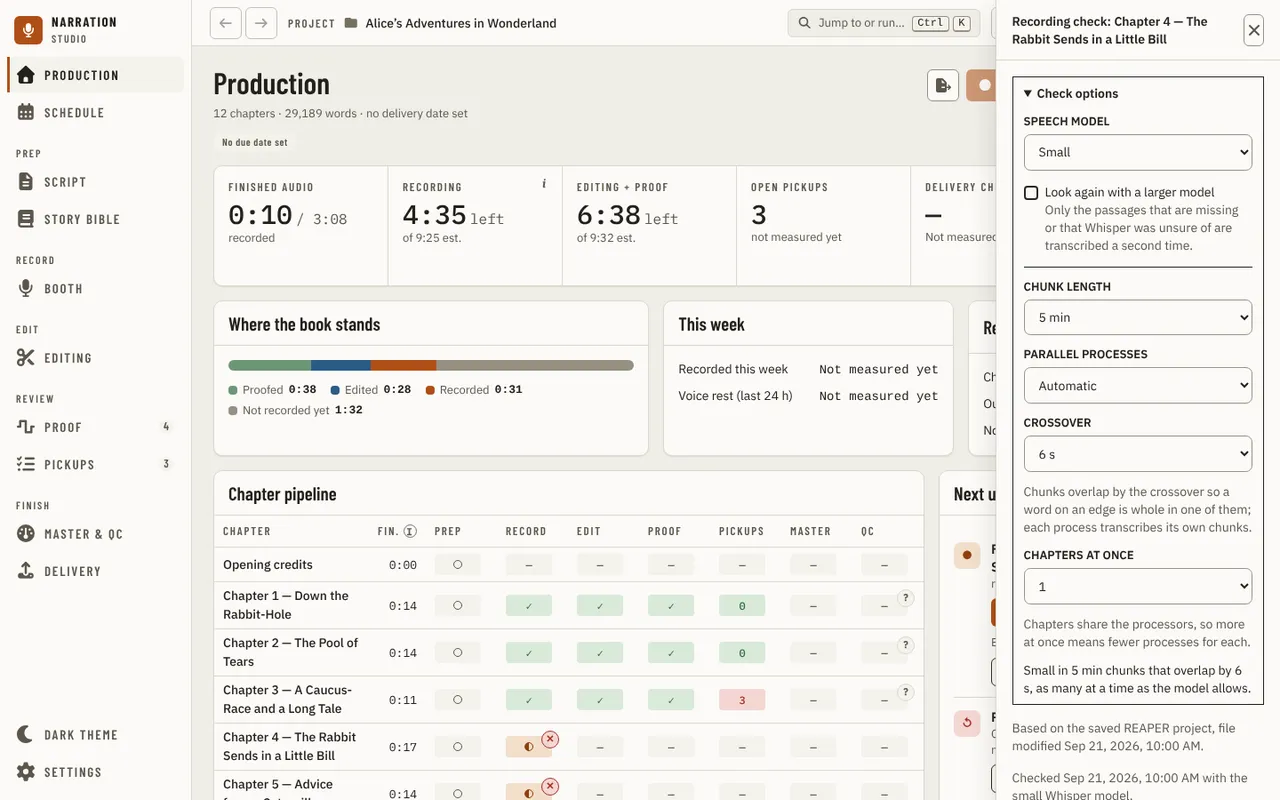
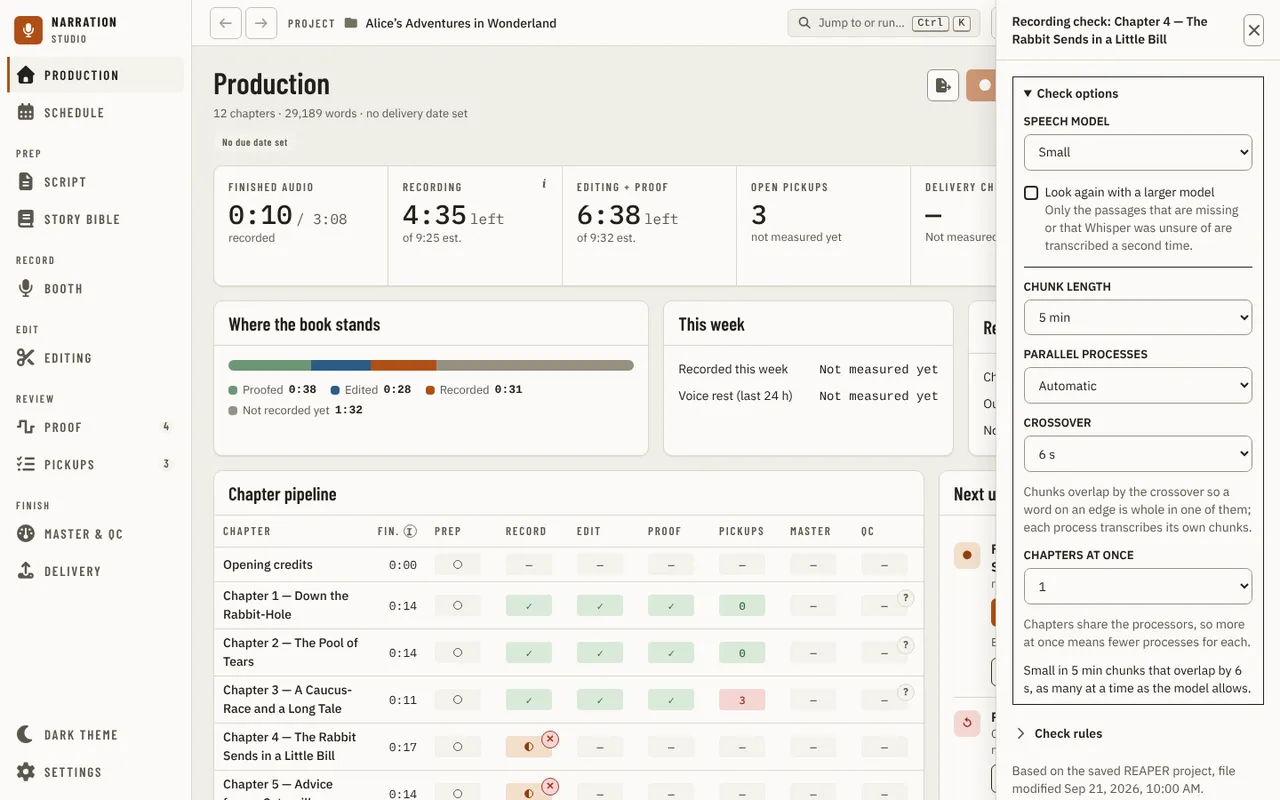
feat(ui): set the recording check rules in the check's own panel
Claude-Session: https://claude.ai/code/session_012dbtbcZmeq9ShBHp1E2XY7

Changed region(s): [[0.7812, 0.9062, 0.9688, 1.0]]

diff --git a/apps/ui/src/components/production/RecordingCheck.test.tsx b/apps/ui/src/components/production/RecordingCheck.test.tsx
@@ -363,3 +363,43 @@ describe('the recording check panel shares the check options with Check recordin
     expect((within(dialog).getByRole('button', { name: /^Check (again|recording)$/ }) as HTMLButtonElement).disabled).toBe(false);
   });
 });
+
+describe('the recording check panel holds the rules the check judges by', () => {
+  async function openRules() {
+    const store = createMockApi();
+    const saveSettings = vi.fn(store.saveSettings);
+    const coverageResult = vi.fn(store.coverageResult);
+    const api = createMockApi({ saveSettings, coverageResult, settingsForScope: store.settingsForScope });
+    const [chapter] = await api.manuscriptChapters();
+    render(
+      <MemoryRouter>
+        <ApiProvider api={api}>
+          <RecordingCheck chapter={chapter} coverage={{ phase: 'idle', percent: 0, message: '' }} notify={vi.fn()} close={vi.fn()} goToParagraph={vi.fn()} />
+        </ApiProvider>
+      </MemoryRouter>,
+    );
+    const dialog = await screen.findByRole('dialog', { name: /^Recording check: Chapter 1\b/ });
+    await userEvent.click(await within(dialog).findByRole('button', { name: /^Check rules/ }));
+    return { dialog, saveSettings, coverageResult };
+  }
+
+  it('shows the five rules at the values in force, with the note that they are proposed', async () => {
+    const { dialog } = await openRules();
+    expect(((await within(dialog).findByRole('textbox', { name: 'Longest run of missing words allowed' })) as HTMLInputElement).value).toBe('3');
+    for (const name of ['Share of each paragraph that must be read', 'Longest misread still counted as read', 'Shortest match that counts as read']) {
+      expect(within(dialog).getByRole('textbox', { name })).toBeTruthy();
+    }
+    expect(within(dialog).getByRole('switch', { name: 'Check changed chapters in the background' }).getAttribute('aria-checked')).toBe('true');
+    expect(within(dialog).getByText('Proposed values, not yet calibrated')).toBeTruthy();
+  });
+
+  it('saves a changed rule for this project and reads the last check again, so it is judged by the new rule', async () => {
+    const { dialog, saveSettings, coverageResult } = await openRules();
+    const box = await within(dialog).findByRole('textbox', { name: 'Longest run of missing words allowed' });
+    const readsBefore = coverageResult.mock.calls.length;
+    fireEvent.change(box, { target: { value: '5' } });
+    fireEvent.blur(box);
+    await waitFor(() => expect(saveSettings).toHaveBeenCalledWith('RecordingCoverage', 'project', { max_missing_run: '5' }));
+    await waitFor(() => expect(coverageResult.mock.calls.length).toBeGreaterThan(readsBefore));
+  });
+});

diff --git a/apps/ui/src/components/production/RecordingCheck.tsx b/apps/ui/src/components/production/RecordingCheck.tsx
@@ -17,6 +17,7 @@ import { InsetCard } from '../primitives/InsetCard';
 import { SlideOver } from '../primitives/SlideOver';
 import { type Notify, retryAction } from '../primitives/Toast';
 import { WorkDialog } from '../primitives/WorkDialog';
+import { ProofOptions } from '../proof/proofOptions/ProofOptions';
 import { RecordingCheckReport } from './RecordingCheckReport';
 import { COVERAGE_REASON_TEXT, LINK_REASONS, REASON_PAGE, formatWhen, passLabel, recheckLabel } from './recordingCheckText';
 
@@ -67,6 +68,18 @@ function coverageWorkJob(state: CoverageState, logs: string[], now: number): Wor
  * reopened chapter is a fresh mount, so a run left going in the background, or a refusal from the last time it was
  * open, is never shown stale.
  */
+/** The recording check's own rules, judged on this project's values (docs/utilities/recording-coverage.md); the model and chunking stay in Settings > Speech to text. */
+const RULE_KEYS = ['min_paragraph_present', 'max_missing_run', 'max_misread_run', 'min_anchor_run', 'background_checks'] as const;
+const RULES_NOTE = (
+  <div className="space-y-1 text-[length:var(--font-size-sm)] text-[var(--text-muted)]">
+    <div className="font-medium text-[var(--text)]">Proposed values, not yet calibrated</div>
+    <div>
+      They were chosen on synthetic test recordings and have not been checked against real ones. The first two only change how a stored check is judged;
+      changing either of the next two changes which words count, so earlier checks read as out of date and those chapters need checking again.
+    </div>
+  </div>
+);
+
 export function RecordingCheck({
   chapter,
   coverage,
@@ -326,6 +339,7 @@ export function RecordingCheck({
             </div>
           </details>
         )}
+        <ProofOptions title="Check rules" tool="RecordingCoverage" keys={RULE_KEYS} onSaved={() => void load()} note={RULES_NOTE} />
         {options.error && (
           <p role="status" style={{ color: 'var(--text-muted)' }}>
             The check options could not be read ({options.error}); the check runs your settings.

diff --git a/apps/ui/src/components/proof/proofOptions/ProofOptions.tsx b/apps/ui/src/components/proof/proofOptions/ProofOptions.tsx
@@ -1,4 +1,4 @@
-import { useState } from 'react';
+import { useState, type ReactNode } from 'react';
 import { Button } from '../../primitives/Button';
 import { Disclosure } from '../../primitives/Disclosure';
 import { NumberInput } from '../../primitives/NumberInput';
@@ -107,6 +107,7 @@ export function ProofOptions({
   tool,
   keys,
   onSaved,
+  note,
   className = '',
 }: {
   title: string;
@@ -114,6 +115,8 @@ export function ProofOptions({
   keys: readonly string[];
   /** Runs after each accepted save, so the page can read again what the option changes. */
   onSaved?: () => void;
+  /** What to know before changing them, above the rows. */
+  note?: ReactNode;
   className?: string;
 }) {
   const [open, setOpen] = useState(false);
@@ -121,6 +124,7 @@ export function ProofOptions({
   return (
     <Disclosure title={title} open={open} onOpenChange={setOpen} className={className}>
       <div className="flex flex-col gap-3 pt-2">
+        {note}
         {fields.map((field) => (
           <Row key={field.key} field={field} onSet={set} />
         ))}

diff --git a/apps/ui/tests/visual/drivers/production.ts b/apps/ui/tests/visual/drivers/production.ts
@@ -214,6 +214,14 @@ export const productionDrivers: Record<string, Driver> = {
     await dialog.getByText('Check options').click();
     await dialog.getByRole('combobox', { name: 'Chapters at once' }).waitFor();
   },
+  // The rules the check judges by, opened from the closed "Check rules" line: the last of them, the background switch, is in the picture.
+  'recording-check-rules': async (page) => {
+    const dialog = await openRecordingCheck(page, 'Chapter 4');
+    await dialog.getByRole('button', { name: /^Check rules/ }).click();
+    const background = dialog.getByRole('switch', { name: 'Check changed chapters in the background' });
+    await background.waitFor();
+    await background.evaluate((element) => element.scrollIntoView({ block: 'end' }));
+  },
   'recording-check-pickups': async (page) => {
     const dialog = await openRecordingCheck(page, 'Chapter 4', 'mockCoverage=pickups');
     await dialog.getByText('Pickups (2)').waitFor();

diff --git a/apps/ui/tests/visual/catalog/production.ts b/apps/ui/tests/visual/catalog/production.ts
@@ -202,6 +202,12 @@ export const productionStates: StateEntry[] = [
   },
   {
     page: 'production',
+    state: 'recording-check-rules',
+    description:
+      "Production, a chapter's recording check panel with its Check rules section open: the note that the values are proposed, then the share of each paragraph, the missing and misread runs, the shortest match and the background switch, this project's values",
+  },
+  {
+    page: 'production',
     state: 'recording-check-pickups',
     description:
       'Production, recording check result with interior gaps (?mockCoverage=pickups): a skip and a short read listed one per line under Pickups, each with Go to paragraph, alongside a small unread tail stated in the summary, not listed',

diff --git a/apps/ui/src/components/settings/registry/pageSettings.ts b/apps/ui/src/components/settings/registry/pageSettings.ts
@@ -20,7 +20,7 @@ export const PAGE_SETTINGS: readonly PageSetting[] = [
     id: 'ps.coverage',
     label: 'Recording check rules',
     page: 'production',
-    where: 'Recording check › Rules',
+    where: 'Recording check › Check rules',
     panel: 'coverage',
     why: 'Only the recording check reads them, and the run already shows the values it used.',
     syn: 'paragraph present missing run misread anchor threshold',

diff --git a/docs/guides/using-the-app/production.md b/docs/guides/using-the-app/production.md
@@ -161,7 +161,7 @@ the work dialog. The app tells you when
 it ends, wherever you are. If the Whisper model is not installed yet, the app asks before
 downloading it, as a chapter's Proof view does. A changed chapter can also be re-checked on its
 own, in the background, once REAPER has been quiet for a few minutes and the app is not otherwise
-busy (Settings' **Check changed chapters in the background**); pressing **Check recording**
+busy (**Check changed chapters in the background**, under the chapter panel's **Check rules**); pressing **Check recording**
 yourself always pre-empts it.
 
 A chapter's recording check panel has the same choices under **Check options**, closed until you open it, and its **Check recording** button runs exactly
@@ -169,6 +169,10 @@ what they show. **Chapters at once** is how many chapters may be checked togethe
 button waits for a chapter being checked elsewhere, and says so, and above 1 it starts beside them.
 
 ![Production - a chapter's recording check with Check options open](../../images/ui/production-recording-check-options.webp)
+
+**Check rules**, also closed until you open it, are what the check judges a chapter by, for this project: **Share of each paragraph that must be read**, **Longest run of missing words allowed**, **Longest misread still counted as read**, **Shortest match that counts as read** and **Check changed chapters in the background**. They are proposed values, chosen on synthetic recordings and not yet calibrated on real narration. A change is saved at once and the last check is read again; the first two only change how a stored check is judged, but the next two change which words count, so earlier checks read as out of date and those chapters need checking again. **Reset** hands a rule back to the computer-wide value or the default (Settings › Set on a page still sets the computer-wide values).
+
+![Production - a chapter's recording check with Check rules open](../../images/ui/production-recording-check-rules.webp)
 
 **Check recordings** (the card's icon) lets you set up the run before it starts. **Speech model** is the
 first pass. **Look again with a larger model** adds a second pass: the **Larger model** transcribes again only
